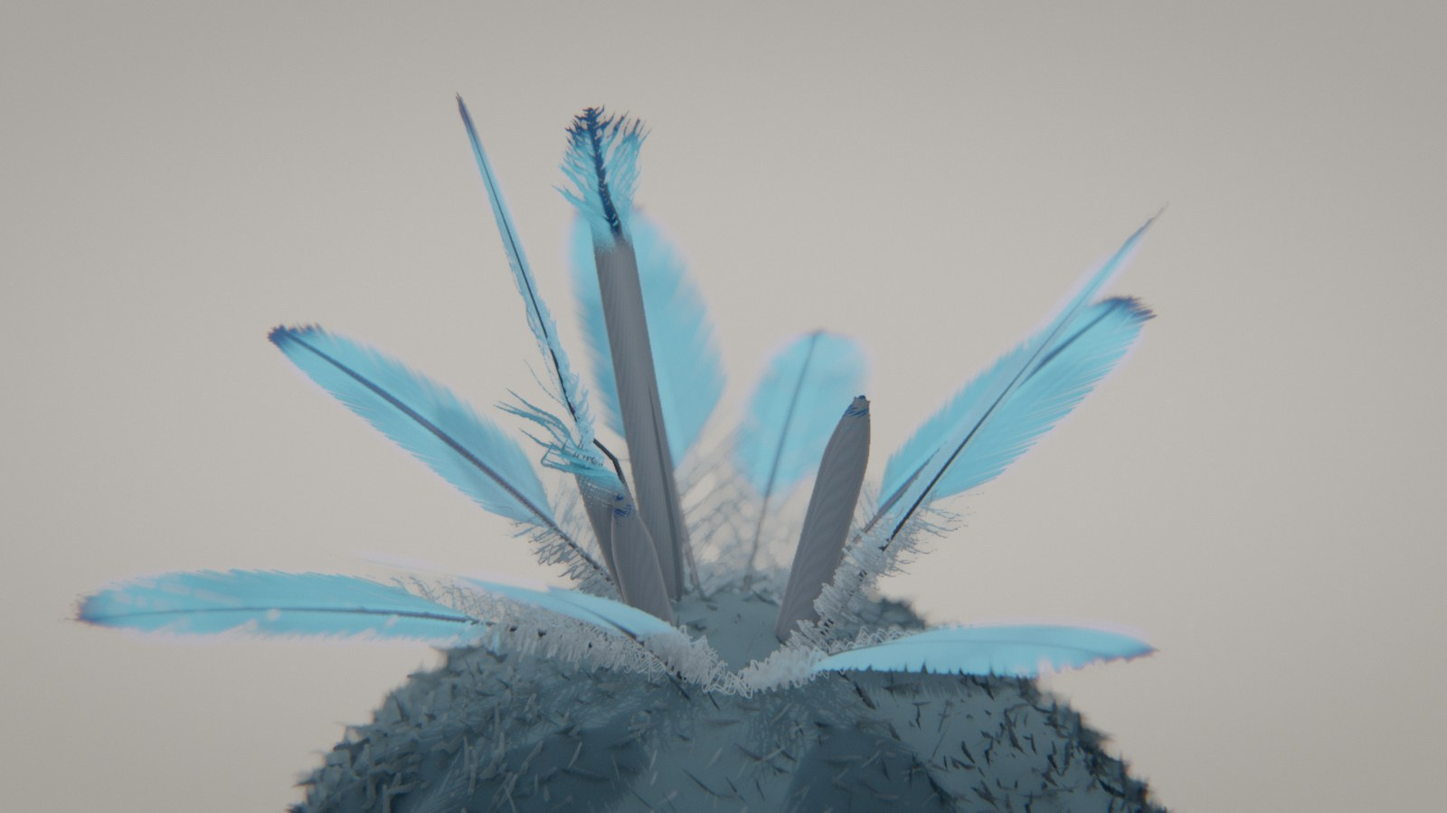
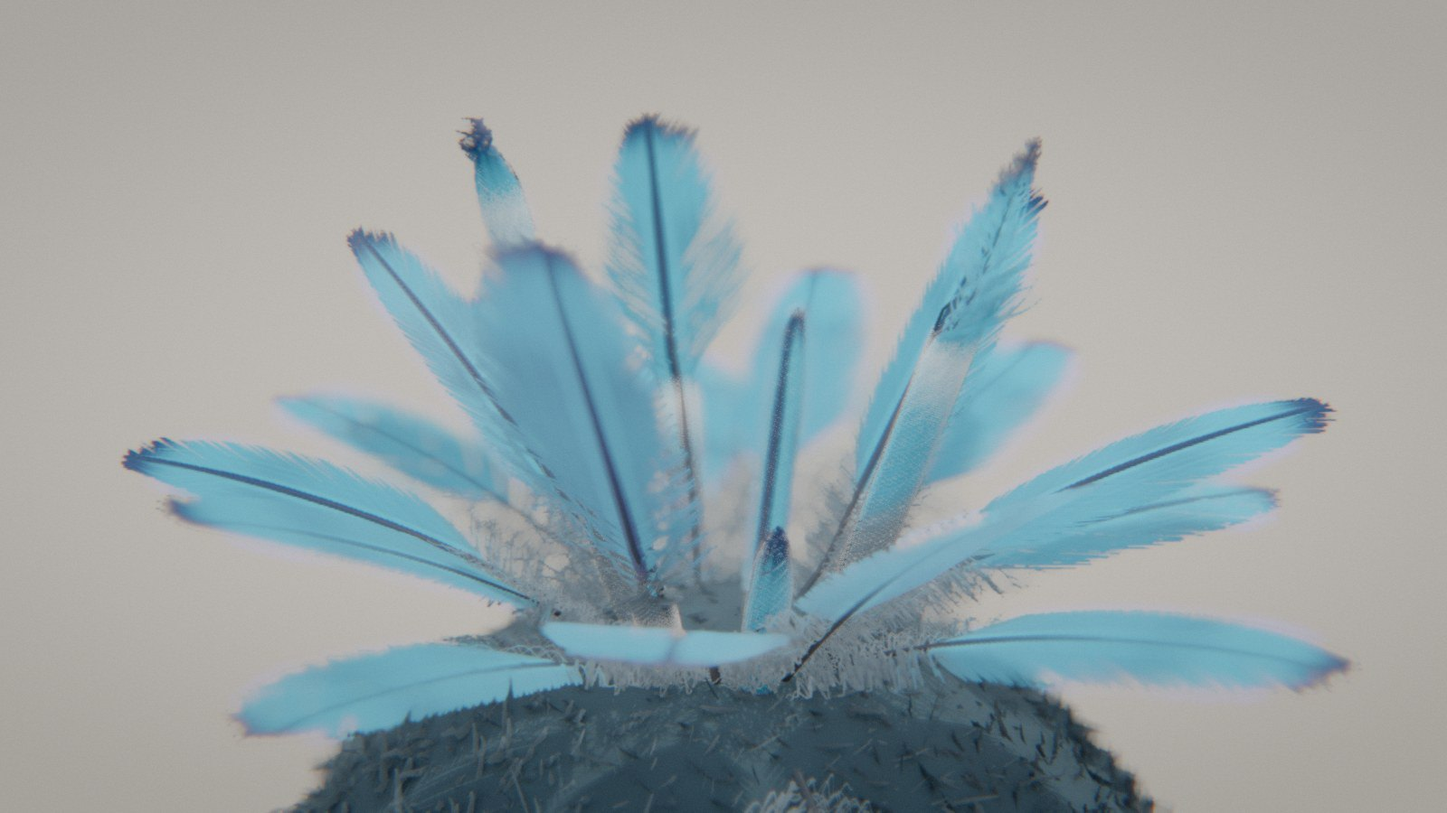
Feather : la gaine devient une pellicule claire (plus de bâton sombre) et la gerbe est plus fournie
La gaine opaque bleu-gris se lisait comme une tige noire, surtout dans les humeurs sombres et à contre-jour. C'est maintenant une pellicule de kératine fine, claire, tramée selon l'incidence (Fresnel) : on voit au travers la plume roulée en fuseau dans ses propres couleurs, et le bord qui sèche blanchit juste sous le front. Ni la gaine ni les barbes encore roulées ne portent d'ombre : le fuseau se faisait de l'ombre à lui-même et restait sombre quand les plumes ouvertes s'allument par translucidité.

Plus de plumes : vexille 21 (couronne 0,16 L), paon 13 (éventail ouvert jusqu'à 0,95 rad, sinon les disques se touchent), duvet 9, autruche et aigrette 11 (inclinaison ≤ 0,5 rad, sinon les pointes entrent dans le socle) ; tableau d'uniformes porté à 48 plumes. Banc des traversées repassé. La plume chassée se soulève en k² sur le duvet (avec un éventail plus ouvert, elle remontait de quelques µm). Capture et vignette de l'accueil reprises ; README et explainer à jour.

diff --git a/feather/explainer.html b/feather/explainer.html
@@ -29,7 +29,7 @@
 
     <figure class="cover">
       <img src="docs/capture.jpg" alt="Une gerbe de plumes de martin-pêcheur sur un sommet de duvet : des tuyaux, des plumes qui se déroulent, d'autres ouvertes et penchées" width="1600" height="900">
-      <figcaption>Martin-pêcheur, cabinet : au centre, des tuyaux encore dans leur gaine ; autour, des plumes à tous les âges, de la plus jeune, presque droite, à la plus usée, la plus penchée.</figcaption>
+      <figcaption>Martin-pêcheur, cabinet : au centre, des plumes encore roulées en fuseau sous leur gaine claire ; autour, des plumes à tous les âges, de la plus jeune, presque droite, à la plus usée, la plus penchée.</figcaption>
     </figure>
 
     <nav class="toc" aria-label="Sommaire"><h2>Sommaire</h2><ol></ol></nav>
@@ -91,7 +91,7 @@
       <section id="gerbe">
         <h2><span class="n">07</span>La gerbe : un zootrope à l'angle d'or</h2>
         <span class="src">src/gen/bouquet.js · layoutBouquet(), ageOf(), betaOf(), oldPose()</span>
-        <p>Pour que le déroulement soit à l'écran tout le temps, la scène n'a plus une plume mais une gerbe : sept à onze follicules sur une petite couronne au sommet d'un socle de duvet, comme la huppe d'un oiseau. Toutes les plumes ont la même vie, décalée : celle du follicule i a l'âge</p>
+        <p>Pour que le déroulement soit à l'écran tout le temps, la scène n'a plus une plume mais une gerbe : neuf à vingt et un follicules sur une petite couronne au sommet d'un socle de duvet, comme la huppe d'un oiseau. Toutes les plumes ont la même vie, décalée : celle du follicule i a l'âge</p>
         <div class="eq">\[ a_i(\varphi) = \operatorname{frac}\!\left(\varphi + \frac{i}{N}\right), \qquad \theta_i = \theta_0 + i\cdot 137{,}5^\circ \]</div>
         <p>où φ est la phase de la boucle et θ<sub>i</sub> l'azimut du follicule, à l'angle d'or. C'est un zootrope : la boucle se referme par construction, et à chaque instant une plume au moins se déplie. L'angle d'or a deux effets. Deux plumes nées l'une après l'autre sont à 137,5° l'une de l'autre, jamais côte à côte. Et deux plumes voisines sur la couronne ont des indices qui diffèrent de 3, 5 ou 8 (la suite de Fibonacci), donc des âges très différents. Or l'inclinaison d'une plume ne fait que croître avec l'âge : le tuyau sort presque droit, la plume se penche à mesure que son vexille ouvert prend du poids, et la plus usée est la plus penchée. Deux voisines sont donc sur deux cônes d'ouverture différente, emboîtés plutôt que croisés.</p>
         <div class="note trap"><b>Le piège</b><p>Un premier socle était une petite pelote de duvet : une boule qui flottait. Puis un champ de duvet presque plat : la plume chassée y tombait et n'avait plus de raison de quitter le cadre. Le socle est maintenant le sommet arrondi d'une tête, prolongé hors du cadre : la plume chassée glisse sur la pente et disparaît par le bas.</p></div>
@@ -127,7 +127,7 @@
       <section id="vertex">
         <h2><span class="n">11</span>Chaque barbe est un ruban posé dans le vertex shader</h2>
         <span class="src">src/scene/feather.js · barbPoseT(), barbMaterial()</span>
-        <p>Il faut dessiner des milliers de barbes, chacune courbée à sa façon et à chaque image. Une plume compte 2 × 110 à 2 × 140 barbes, et la gerbe en compte sept à onze, toutes au gabarit fin, chacune avec l'ancienne plume qu'elle chasse. L'outil habituel de three.js pour répéter un objet, <code>InstancedMesh</code>, n'est pas employé, parce que three.js compile un shader par objet. Le tout est un seul maillage ordinaire, dont la géométrie porte, par barbe, quatre vec4 dans un seul tampon entrelacé : racine, côté, longueur, angle, courbure, rayons du tube, part duveteuse, plume, tirage, largeur, agrafable, affaissement, écart, ondulation, usure. L'état de chaque plume (repère, temps local, usure, courbure) tient dans un tableau d'uniformes de 32 × 3 vec4, des valeurs que le programme envoie au GPU à chaque image. Il est recopié à chaque image dans un second tableau, qui sert au calcul des vecteurs vitesse.</p>
+        <p>Il faut dessiner des milliers de barbes, chacune courbée à sa façon et à chaque image. Une plume compte 2 × 110 à 2 × 140 barbes, et la gerbe en compte neuf à vingt et une, toutes au gabarit fin, chacune avec l'ancienne plume qu'elle chasse. L'outil habituel de three.js pour répéter un objet, <code>InstancedMesh</code>, n'est pas employé, parce que three.js compile un shader par objet. Le tout est un seul maillage ordinaire, dont la géométrie porte, par barbe, quatre vec4 dans un seul tampon entrelacé : racine, côté, longueur, angle, courbure, rayons du tube, part duveteuse, plume, tirage, largeur, agrafable, affaissement, écart, ondulation, usure. L'état de chaque plume (repère, temps local, usure, courbure) tient dans un tableau d'uniformes de 48 × 3 vec4, des valeurs que le programme envoie au GPU à chaque image. Il est recopié à chaque image dans un second tableau, qui sert au calcul des vecteurs vitesse.</p>
         <p>Chaque barbe est un ruban de 22 segments, avec 3 sommets en travers : bord, arête, bord. La normale s'incline en travers pour que l'arête du ramus (la tige de la barbe) accroche un filet de lumière. La frange des barbules est un peigne tramé, lissé par l'anticrénelage temporel. Le motif est lu dans le plan déroulé, grâce à deux coordonnées interpolées. La translucidité éclaire le vexille au contre-jour et y dessine le motif en ombre chinoise.</p>
         <div class="note trap"><b>Le piège</b><p>Un bout de barbe carré, multiplié par cent, dessine un contour en dents de scie. Trop effilé, il dessine des épines. La barbe s'amincit de 30 % sur sa longueur, puis de 40 % de plus sur son dernier tiers.</p></div>
         <div class="note trap"><b>Le piège</b><p>Une ombre en bande sur le vexille disparaissait d'un coup quand la plume finissait de se dérouler. C'était l'ombre de la gaine. Une fois la gaine effritée, elle était masquée à l'écran, mais restait entière dans la carte d'ombre, car three.js y réutilise le masque du matériau (<code>maskNode</code>) sans les variables interpolées qu'il lit. Son ombre disparaissait donc d'un bloc, au retrait de la gaine. La gaine effritée est retirée de la géométrie elle-même, et chaque matériau masqué a un masque d'ombre explicite (<code>maskShadowNode</code>).</p></div>

diff --git a/feather/src/scene/feather.js b/feather/src/scene/feather.js
@@ -12,7 +12,7 @@ import * as THREE from 'three/webgpu';
 import {
   Fn, attribute, positionLocal, normalLocal, positionPrevious, vec2, vec3, vec4, float, int, dot, normalize, mix,
   abs, uniform, uniformArray, texture, clamp, pow, sin, cos, exp, max as tmax, min as tmin, select, cross, normalViewGeometry,
-  varyingProperty, hash, fract, length, positionGeometry, frameId, step, fwidth, normalView, positionViewDirection,
+  varyingProperty, hash, fract, length, positionGeometry, frameId, step, fwidth, normalView, positionViewDirection, screenCoordinate,
 } from 'three/tsl';
 import { isLite, stableVelocity, perturb } from '../../../shared/scene/materials.js';
 import { G } from '../../../shared/scene/globals.js';
@@ -51,7 +51,7 @@ const stOf = (A, f) => {
 
 // La pose (gen/feather.js, barbPose). b0..b3 : la barbe ; tv : (t, v, arête) ;
 // st : l'état de sa plume ; FU : uniformes de la famille.
-function barbPoseT(b0, b1, b2, b3, tv, st, FU, ridgeK = 0.7) {
+function barbPoseT(b0, b1, b2, b3, tv, st, FU, ridgeK = 0.7, shadow = false) {
   const s0 = b0.x, side = b0.y, ell = b0.z, alpha0 = b0.w;
   const curl0 = b1.x, rho0 = b1.y, rho1 = b1.z, plum = b1.w;
   const rnd = b2.y, width = b2.z, zipF = b2.w;
@@ -102,7 +102,11 @@ function barbPoseT(b0, b1, b2, b3, tv, st, FU, ridgeK = 0.7) {
   const cx = nx.add(tilt.mul(tx)), cz = nz.add(tilt.mul(tz));
   const n = normalize(vec3(cx, Ny.mul(cz), Nz.mul(cz)));
   // caché (dans le follicule, ou plume masquée) : replié au follicule
-  const hide = yy.lessThan(0).or(st.T.w.lessThan(0.5));
+  // (passe d'ombre : une barbe encore roulée n'en porte pas — le tuyau se
+  // faisait de l'ombre à lui-même et restait un bâton sombre à contre-jour,
+  // quand les plumes ouvertes s'allument par translucidité)
+  let hide = yy.lessThan(0).or(st.T.w.lessThan(0.5));
+  if (shadow) hide = hide.or(rel.lessThan(0.5));
   p = select(hide, vec3(0, -0.05, 0), p);
   const world = st.P.xyz.add(qrot(st.Q, p.mul(st.P.w)));
   const nw = qrot(st.Q, n);
@@ -162,7 +166,7 @@ export function barbMaterial({ FS, FSP, FU, LK, PAT, moving, tile = false }) {
     const b0 = attribute('b0', 'vec4'), b1 = attribute('b1', 'vec4'), b2 = attribute('b2', 'vec4'), b3 = attribute('b3', 'vec4');
     const tv = positionGeometry;
     const st = stOf(FS, b2.x);
-    const P = barbPoseT(b0, b1, b2, b3, tv, st, FU, tile ? 0.2 : 0.45); // (voisines : un ruban vaut plusieurs barbes, arête adoucie)
+    const P = barbPoseT(b0, b1, b2, b3, tv, st, FU, tile ? 0.2 : 0.45, !full); // (voisines : un ruban vaut plusieurs barbes, arête adoucie)
     if (full) {
       normalLocal.assign(P.nw);
       vA.assign(vec4(P.pat, tv.x, tv.y));
@@ -364,23 +368,33 @@ export function sheathMaterial({ FS, FSP, FU, LK }) {
   const front = releaseAtT(s); // (instant où le front passe à cette hauteur)
   const flake = fract(sin(s.mul(173.1).add(ang.mul(7.3))).mul(4375.5));
   const gone = u.sub(front).add(flake.mul(0.012));
-  m.maskNode = gone.lessThan(0.0);
-  m.maskShadowNode = float(1).greaterThan(0); // (l'ombre suit la géométrie, voir goneV)
-  // kératine cireuse, bleu-gris, translucide ; crêtes hélicoïdales des barbes
-  // vues au travers ; plus sombre vers la base (la pulpe)
+  // Une pellicule, pas un tube : une gaine de kératine de quelques µm, claire
+  // comme du papier de soie, à travers laquelle on voit la plume roulée dans
+  // ses couleurs. Elle ne se lit qu'à ses bords (incidence rasante : Fresnel),
+  // par ses crêtes hélicoïdales et là où elle sèche et se fend, au front.
+  // (couverture tramée, lissée par l'anticrénelage temporel ; en version
+  // légère, sans TRAA : seuil fixe, il ne reste que le liseré)
   const helix = sin(ang.mul(28).add(s.mul(180))).mul(0.5).add(0.5);
-  const pulp = sst(0.45, 0.05, s);
-  const col = LK.sheath.mul(helix.mul(0.12).add(0.9)).mul(mix(float(1), float(0.55), pulp));
+  const fres = float(1).sub(abs(dot(normalView, positionViewDirection)).clamp(0, 1));
+  const dry = sst(-0.035, 0, gone); // (le bord qui sèche, juste sous le front : blanchi, plus opaque)
+  const cover = float(0.03).add(fres.mul(fres).mul(fres).mul(0.7)).add(helix.mul(0.05)).add(dry.mul(0.5)).clamp(0, 0.9);
+  // (bruit à gradient entrelacé, à l'écran, décalé à chaque image)
+  const ign = fract(fract(dot(screenCoordinate.xy, vec2(0.06711056, 0.00583715))).mul(52.9829189));
+  const thr = lite ? float(0.5) : fract(ign.add(float(frameId).mul(0.618034)));
+  m.maskNode = gone.lessThan(0.0).and(cover.greaterThan(thr));
+  m.maskShadowNode = float(1).greaterThan(0); // (sans ombre portée : voir stage.js)
+  const pale = mix(vec3(0.93, 0.92, 0.89), LK.sheath, 0.12);
+  const col = pale.mul(helix.mul(0.06).add(0.96)).mul(mix(float(1), float(1.04), dry));
   m.colorNode = col;
-  m.roughnessNode = float(0.3).add(helix.mul(0.1));
+  m.roughnessNode = mix(float(0.16), float(0.5), dry);
   m.metalnessNode = float(0);
-  m.clearcoatNode = float(0.5);
-  m.clearcoatRoughnessNode = float(0.25);
-  m.thicknessColorNode = col.mul(vec3(1.1, 1.0, 0.9)).mul(0.35);
-  m.thicknessDistortionNode = float(0.2);
+  m.clearcoatNode = float(1);
+  m.clearcoatRoughnessNode = float(0.12);
+  m.thicknessColorNode = col.mul(0.5);
+  m.thicknessDistortionNode = float(0.1);
   m.thicknessAmbientNode = float(0.0);
   m.thicknessAttenuationNode = float(1.0);
-  m.thicknessPowerNode = float(3.0);
+  m.thicknessPowerNode = float(2.0);
   m.thicknessScaleNode = float(1.5);
   m.mrtNode = stableVelocity();
   void FSP; void length; void step; void G;

diff --git a/feather/src/gen/bouquet.js b/feather/src/gen/bouquet.js
@@ -39,10 +39,10 @@ export const GOLDEN = Math.PI * (3 - Math.sqrt(5)); // (137,5°)
 //   inclinaison des follicules ; lean : inclinaison de la plume en plus [tuyau,
 //   ouverte, usée] (rad) ; kb : courbure du rachis (1/cm, × 1/L)
 export const GERBE = {
-  vexille: { N: 11, cap: 0.9, rho: 0.12, thF: 0.3, lean: [0.02, 0.34, 0.6], kb: 0.42 },
-  ocelle: { N: 8, cap: 0.55, rho: 0.06, thF: 0.26, lean: [0.02, 0.3, 0.56], kb: 0.22 },
-  duvet: { N: 6, cap: 1.8, rho: 0.75, thF: 0.3, lean: [0.06, 0.4, 0.62], kb: 0 },
-  plume: { N: 7, cap: 0.6, rho: 0.09, thF: 0.2, lean: [0.02, 0.22, 0.42], kb: 0.36 },
+  vexille: { N: 21, cap: 0.9, rho: 0.16, thF: 0.3, lean: [0.02, 0.34, 0.6], kb: 0.42 },
+  ocelle: { N: 13, cap: 0.55, rho: 0.06, thF: 0.26, lean: [0.02, 0.5, 0.95], kb: 0.22 },
+  duvet: { N: 9, cap: 1.8, rho: 0.75, thF: 0.3, lean: [0.06, 0.4, 0.62], kb: 0 },
+  plume: { N: 11, cap: 0.6, rho: 0.12, thF: 0.2, lean: [0.02, 0.25, 0.5], kb: 0.36 },
 };
 
 // inclinaison d'une plume à l'âge a (monotone : elle ne se redresse jamais)
@@ -149,7 +149,7 @@ export function oldPose(lay, f, a, P) {
   const beta = beta0 + (FALL.lie - beta0) * k;
   const s = f.th * lay.Rd + L * (1.0 * T * T + 6 * Math.max(0, T - 0.1) ** 2);
   const S = surfaceAt(lay.Rd, s, f.az);
-  const lift = 0.025 * L * k; // (couchée sur le duvet)
+  const lift = 0.025 * L * k * k; // (couchée sur le duvet ; k² : le soulèvement ne devance pas la descente le long de l’axe, elle ne remonte jamais)
   // (l'axe sorti du follicule s'efface à mesure qu'elle se couche)
   const p = S.p.map((v, i) => v + S.n[i] * lift + Y0[i] * slide * (1 - k));
   const wob = 0.12 * Math.sin(T * 9) * sstep(0.15, 0.4, T);

diff --git a/feather/src/scene/stage.js b/feather/src/scene/stage.js
@@ -16,7 +16,7 @@ import { layoutBouquet, bouquetState } from '../gen/bouquet.js';
 import { cameraPath } from '../camera.js';
 
 const SHADOW = { mobile: 1024, low: 1024, medium: 2048, high: 2048, ultra: 4096 };
-const MAXF = 32; // (3 vec4 par plume ; deux instances par follicule)
+const MAXF = 48; // (3 vec4 par plume ; deux instances par follicule)
 
 export function createStage(scene, gen, { lite = false } = {}) {
   // ── Lumières (ordre fixe) ──
@@ -145,8 +145,10 @@ export function createStage(scene, gen, { lite = false } = {}) {
       }
       add(new THREE.Mesh(barbGeometry(T, lite ? 12 : 22), barbMaterial({ FS, FSP, FU, LK, PAT: t, moving: true })));
       add(new THREE.Mesh(P.radial ? rachisGeometry(nF, 8, 8) : rachisGeometry(nF), rachisMaterial({ FS, FSP, FU, LK, moving: true, offset: 0 })));
-      // les gaines : une par follicule (la plume courante, id pair)
-      add(new THREE.Mesh(sheathGeometry(Array.from({ length: lay.N }, (_, i) => 2 * i), lite ? 40 : 64, lite ? 12 : 20), sheathMaterial({ FS, FSP, FU, LK })));
+      // les gaines : une par follicule (la plume courante, id pair) — une
+      // pellicule claire, sans ombre portée (elle assombrissait la plume roulée
+      // dedans : un bâton sombre au milieu de la gerbe)
+      add(new THREE.Mesh(sheathGeometry(Array.from({ length: lay.N }, (_, i) => 2 * i), lite ? 40 : 64, lite ? 12 : 20), sheathMaterial({ FS, FSP, FU, LK })), false);
       pending--;
       lastPh = -1;
     }).catch((e) => { console.error(e); pending = Math.max(0, pending - 1); });

diff --git a/feather/README.md b/feather/README.md
@@ -2,9 +2,9 @@
 
 *la plume en tuyau.* Une gerbe de plumes pousse au sommet d'une tête couverte de duvet, comme une huppe. Chaque plume sort roulée dans sa gaine. La gaine s'effrite, la plume se déroule comme un livre qu'on ouvre, ses barbes s'agrafent l'une à l'autre et son motif apparaît. Elle se penche à sa place dans la gerbe, s'use, et la suivante la chasse. À chaque instant, l'une d'elles se déplie.
 
-Au centre de la gerbe, des tuyaux bleutés montent, roulés dans un tube de kératine cireux. Autour, des plumes à tous les âges : celles qui viennent de s'ouvrir, presque droites, puis de plus en plus penchées à mesure que leur vexille ouvert prend du poids, jusqu'à la plus usée, aux pointes effrangées. Quand un tuyau pousse sous la plus vieille, il chasse son calamus hors du follicule : elle bascule, se couche sur le duvet et glisse sur la pente du crâne, hors du cadre. Sur chaque tuyau, la gaine sèche et s'effrite de la pointe vers la base. Les barbes libérées s'écartent en pinceau, et les deux moitiés du cylindre s'ouvrent, sans s'étirer, pour devenir les deux vexilles (les deux moitiés plates de la plume, de part et d'autre de l'axe). Les barbes, d'abord séparées par des jours, s'agrafent de proche en proche, et le motif (barres, chevrons, taches, ocelle) se lit en entier.
+Au centre de la gerbe, des tuyaux montent : chaque plume roulée en fuseau, dans ses propres couleurs, sous une gaine de kératine fine et claire comme du papier de soie, qui ne se lit qu'à ses bords. Autour, des plumes à tous les âges : celles qui viennent de s'ouvrir, presque droites, puis de plus en plus penchées à mesure que leur vexille ouvert prend du poids, jusqu'à la plus usée, aux pointes effrangées. Quand un tuyau pousse sous la plus vieille, il chasse son calamus hors du follicule : elle bascule, se couche sur le duvet et glisse sur la pente du crâne, hors du cadre. Sur chaque tuyau, la gaine sèche et s'effrite de la pointe vers la base. Les barbes libérées s'écartent en pinceau, et les deux moitiés du cylindre s'ouvrent, sans s'étirer, pour devenir les deux vexilles (les deux moitiés plates de la plume, de part et d'autre de l'axe). Les barbes, d'abord séparées par des jours, s'agrafent de proche en proche, et le motif (barres, chevrons, taches, ocelle) se lit en entier.
 
-![Une gerbe de martin-pêcheur au cabinet : des tuyaux au centre, des plumes ouvertes à tous les âges autour (graine 1)](docs/capture.jpg)
+![Une gerbe de martin-pêcheur au cabinet : au centre, des plumes encore roulées en fuseau sous leur gaine claire, l’une qui se déplie ; autour, des plumes ouvertes à tous les âges (graine 1)](docs/capture.jpg)
 
 Rendu physique en three.js (WebGPU, TSL). La scène est entièrement procédurale : une graine (un code court) produit toujours la même scène. La démarche est dans [docs/concept.md](docs/concept.md) : le thème exploré sous six angles, les clichés écartés, neuf pistes notées, les épreuves (crédibilité, variété, ambition, déclinaison, échelle) et les révisions après les premiers rendus, jusqu'au passage du plumage en tuiles à la gerbe.
 
@@ -69,8 +69,8 @@ La courbure change, la longueur d'arc non : chaque barbe se déroule sur un cyli
 
 ## La plume (`src/gen/feather.js`, `src/scene/feather.js`)
 
-- **La gaine** (une par follicule, instanciée) s'effrite derrière le front de déroulement : elle est retirée de la géométrie elle-même (et donc de la carte d'ombre) au-delà de son bord tramé. Un masque de fragment ne suffit pas : la passe d'ombre de three.js le réutilise sans les variables qu'il lit (la gaine y restait entière, puis disparaissait d'un bloc).
-- **Construction** : calamus translucide (qui reste aux trois quarts dans le follicule), rachis effilé, deux vexilles asymétriques dont la base est duveteuse (barbes libres et frisées), barbes à arête (le ramus) bordées d'une frange de barbules, gaine de kératine cireuse aux crêtes hélicoïdales et à la pulpe sombre, pointe usée, motif déposé pendant la croissance, irisation.
+- **La gaine** (une par follicule, instanciée) est une pellicule, pas un tube opaque : on voit au travers la plume roulée dans ses couleurs. Sa couverture est tramée (lissée par l'anticrénelage temporel) et suit l'incidence (Fresnel : elle ne se lit qu'aux bords du fuseau), ses crêtes hélicoïdales et le bord qui sèche, blanchi, juste sous le front. Elle ne porte pas d'ombre, et une barbe encore roulée non plus : le fuseau se faisait de l'ombre à lui-même et restait un bâton sombre au milieu de la gerbe, surtout à contre-jour, quand les plumes ouvertes s'allument par translucidité. Elle s'effrite derrière le front de déroulement : elle est retirée de la géométrie elle-même (et donc de la carte d'ombre) au-delà de son bord tramé. Un masque de fragment ne suffit pas : la passe d'ombre de three.js le réutilise sans les variables qu'il lit (la gaine y restait entière, puis disparaissait d'un bloc).
+- **Construction** : calamus translucide (qui reste aux trois quarts dans le follicule), rachis effilé, deux vexilles asymétriques dont la base est duveteuse (barbes libres et frisées), barbes à arête (le ramus) bordées d'une frange de barbules, gaine de kératine claire et fine aux crêtes hélicoïdales, pointe usée, motif déposé pendant la croissance, irisation.
 - **Rubans à arête** : chaque barbe est un gabarit de 22 segments sur 3 sommets, instancié pour toutes les plumes de la gerbe (quatre vec4 par instance dans un tampon entrelacé) et posé dans le vertex shader par la même formule qu'en JS (`barbPose`). La normale s'incline en travers (l'arête du ramus accroche un filet de lumière). La frange des barbules est un peigne tramé (lissé par l'anticrénelage temporel).
 - **Libres puis agrafées** : une barbe libérée s'écarte de quelques degrés et ondule (des jours s'ouvrent entre les barbes), puis le front d'agrafage la ramène dans le plan. Les barbes sans crochets s'affaissent sous leur poids.
 - **Matière** : couleur du motif lue dans le plan déroulé, lustre de velours des barbules, translucidité (à contre-jour, le vexille s'allume et son motif se lit en ombre chinoise).
@@ -78,7 +78,7 @@ La courbure change, la longueur d'arc non : chaque barbe se déroule sur un cyli
 
 ## La gerbe (`src/gen/bouquet.js`)
 
-**Un zootrope à l'angle d'or.** Sept à onze follicules sur une petite couronne au sommet du socle. Le follicule i est à l'azimut i × 137,5°, et sa plume a l'âge a = frac(φ + i/N), φ étant la phase de la boucle. Deux plumes nées l'une après l'autre sont donc à 137,5° l'une de l'autre. Deux voisines sur la couronne ont des indices qui diffèrent de 3, 5 ou 8, donc des âges très différents, et comme l'inclinaison ne fait que croître avec l'âge, elles sont sur deux cônes emboîtés plutôt que croisés. La boucle se referme par construction, et à chaque instant une plume au moins se déplie.
+**Un zootrope à l'angle d'or.** Neuf à vingt et un follicules sur une petite couronne au sommet du socle. Le follicule i est à l'azimut i × 137,5°, et sa plume a l'âge a = frac(φ + i/N), φ étant la phase de la boucle. Deux plumes nées l'une après l'autre sont donc à 137,5° l'une de l'autre. Deux voisines sur la couronne ont des indices qui diffèrent de 3, 5 ou 8, donc des âges très différents, et comme l'inclinaison ne fait que croître avec l'âge, elles sont sur deux cônes emboîtés plutôt que croisés. La boucle se referme par construction, et à chaque instant une plume au moins se déplie.
 
 **Le socle.** Le sommet arrondi d'une tête (une calotte prolongée par un cylindre qui sort du cadre), couvert de houppes de duvet gonflées, semées sans trame et cuites une fois en un maillage statique. Deux essais l'ont précédé : une petite pelote, qui se lisait comme une boule flottante, et un champ de duvet presque plat, où la plume chassée tombait sans plus avoir de raison de quitter le cadre.
 
@@ -86,16 +86,18 @@ La courbure change, la longueur d'arc non : chaque barbe se déroule sur un cyli
 
 | Famille | Plumes | Calotte | Couronne | Inclinaison (tuyau → ouverte → usée) | Courbure du rachis |
 | --- | --- | --- | --- | --- | --- |
-| Vexille | 11 | 0,9 L | 0,12 L | 0,02 → 0,34 → 0,6 rad, plus le follicule (0,3) | 0,42 / L |
-| Ocelle | 8 | 0,55 L | 0,06 L | 0,02 → 0,3 → 0,56, plus 0,26 | 0,22 / L |
-| Duvet | 6 | 1,8 L | 0,75 L (une grappe de houppes) | 0,06 → 0,4 → 0,62, plus 0,3 | — |
-| Plume | 7 | 0,6 L | 0,09 L | 0,02 → 0,22 → 0,42, plus 0,2 (une fontaine) | 0,36 / L |
+| Vexille | 21 | 0,9 L | 0,16 L | 0,02 → 0,34 → 0,6 rad, plus le follicule (0,3) | 0,42 / L |
+| Ocelle | 13 | 0,55 L | 0,06 L | 0,02 → 0,5 → 0,95, plus 0,26 | 0,22 / L |
+| Duvet | 9 | 1,8 L | 0,75 L (une grappe de houppes) | 0,06 → 0,4 → 0,62, plus 0,3 | — |
+| Plume | 11 | 0,6 L | 0,12 L | 0,02 → 0,25 → 0,5, plus 0,2 (une fontaine) | 0,36 / L |
+
+Une gerbe fournie : 21 vexilles, 13 paons (des nombres de Fibonacci s'emboîtent le mieux à l'angle d'or). Plus serrés, les disques des paons se touchaient. Leur éventail s'ouvre donc davantage (jusqu'à 0,95 rad), en fontaine. Les plumes d'autruche et d'aigrette, à onze, se penchent moins (0,5 rad) : plus inclinées, leurs pointes entraient dans le duvet du socle.
 
 L'inclinaison du follicule ne s'applique qu'à 30 % tant que la plume est un tuyau, puis entièrement une fois ouverte : un tuyau penché passait sous la base large des plumes les plus vieilles.
 
 **Les traversées : un banc** (`src/gen/collide.js`). Le banc mesure ce que l'on voit. À un instant u, il prend toutes les plumes de la gerbe à leur place réelle (`bouquetState`, la fonction qui remplit aussi les uniformes du GPU). Chaque barbe et chaque rachis y sont des lignes brisées, posées par la même formule que le vertex shader, et la surface pleine de chaque plume (barbes agrafées, rachis) une carte de hauteur dans son propre repère. Un segment dont les deux extrémités sont de part et d'autre d'une surface, de plus de 0,15 mm, la traverse. Les barbes libres (les fils du paon, l'autruche) se mêlent comme des cheveux : elles ne font pas surface. Au pied de la gerbe (sur 0,1 L), les bases duveteuses et le duvet du socle se mêlent de même, et on n'y compte pas les traversées. `node feather/tools/crossings.mjs 1 7 g1:vexille` donne le pire instant de chaque graine.
 
-Il n'y a plus de solveur. Le plumage en tuiles en demandait un (3 à 8 s au chargement), qui écartait les voisines pas à pas, des mouvements sans cause visible. Dans la gerbe, l'ordre suffit. Mesuré sur huit graines et 100 instants : 0,6 mm au plus pour les vexilles, le duvet et le paon. Pour l'autruche, dont seuls les rachis sont pleins, deux rachis se frôlent encore pendant un ou deux centièmes de boucle (jusqu'à 5 mm).
+Il n'y a plus de solveur. Le plumage en tuiles en demandait un (3 à 8 s au chargement), qui écartait les voisines pas à pas, des mouvements sans cause visible. Dans la gerbe, l'ordre suffit. Mesuré sur huit graines et 100 instants : 0,6 mm au plus pour les vexilles, le duvet et le paon. Pour l'autruche, dont seuls les rachis sont pleins, deux rachis se frôlent encore pendant quelques centièmes de boucle (jusqu'à 3 mm).
 
 ## Les décors
 
